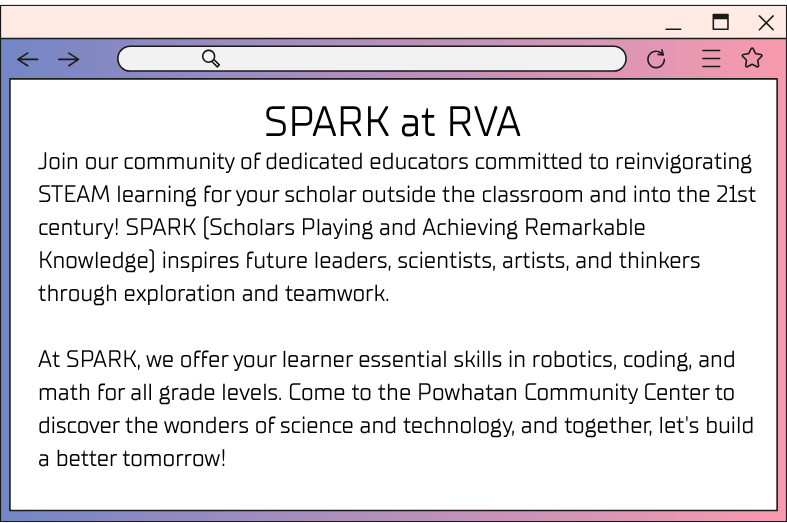
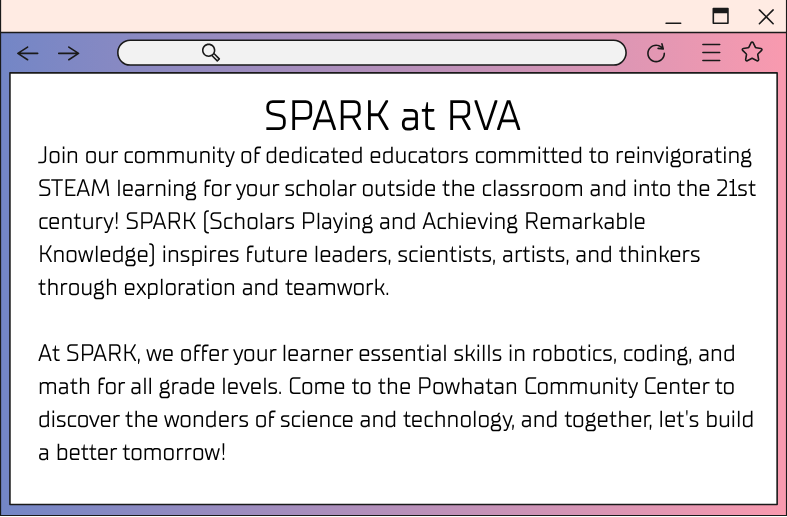
homepage set

diff --git a/src/app/page.tsx b/src/app/page.tsx
@@ -7,8 +7,74 @@ import missionpage from '@/app/Images/missionpage.png'
 
 function MyApp() {
   return (
-    <div>
-      <Image src={missionpage} alt="Mission Page" width={500} height={300} />
+    <div className="container">
+      <div style={{ transform: 'translate(320px,100px)' }}>
+        <Image src={missionpage} alt="Mission Page" width={500} height={300} />
+      </div>
+      <div style={{ display: 'flex', flexWrap: 'wrap', alignItems: 'center', justifyContent: 'center', transform: "translate(15px, 160px)" }}>
+        <a
+          href="https://www.tiktok.com/@spark.rva?is_from_webapp=1&sender_device=pc"
+          target="_blank"
+          rel="noopener noreferrer"
+          style={{
+            textDecoration: 'none',
+            border: 0,
+            width: 36,
+            height: 36,
+            padding: 2,
+            margin: 5,
+            color: '#ffffff',
+            borderRadius: '15%',
+            backgroundColor: '#0d2744'
+          }}
+        >
+          <svg className="niftybutton-tiktok" style={{ display: 'block', fill: 'currentColor' }} data-donate="true" data-tag="tic" data-name="TikTok" viewBox="0 0 512 512" preserveAspectRatio="xMidYMid meet"><title>TikTok social icon</title>
+            <path d="M 386.160156 141.550781 C 383.457031 140.15625 380.832031 138.625 378.285156 136.964844 C 370.878906 132.070312 364.085938 126.300781 358.058594 119.785156 C 342.976562 102.523438 337.339844 85.015625 335.265625 72.757812 L 335.351562 72.757812 C 333.617188 62.582031 334.332031 56 334.441406 56 L 265.742188 56 L 265.742188 321.648438 C 265.742188 325.214844 265.742188 328.742188 265.589844 332.226562 C 265.589844 332.660156 265.550781 333.058594 265.523438 333.523438 C 265.523438 333.714844 265.523438 333.917969 265.484375 334.117188 C 265.484375 334.167969 265.484375 334.214844 265.484375 334.265625 C 264.011719 353.621094 253.011719 370.976562 236.132812 380.566406 C 227.472656 385.496094 217.675781 388.078125 207.707031 388.066406 C 175.699219 388.066406 149.757812 361.964844 149.757812 329.734375 C 149.757812 297.5 175.699219 271.398438 207.707031 271.398438 C 213.765625 271.394531 219.789062 272.347656 225.550781 274.226562 L 225.632812 204.273438 C 190.277344 199.707031 154.621094 210.136719 127.300781 233.042969 C 115.457031 243.328125 105.503906 255.605469 97.882812 269.316406 C 94.984375 274.316406 84.042969 294.410156 82.714844 327.015625 C 81.882812 345.523438 87.441406 364.699219 90.089844 372.625 L 90.089844 372.792969 C 91.757812 377.457031 98.214844 393.382812 108.742188 406.808594 C 117.230469 417.578125 127.253906 427.035156 138.5 434.882812 L 138.5 434.714844 L 138.667969 434.882812 C 171.925781 457.484375 208.800781 456 208.800781 456 C 215.183594 455.742188 236.566406 456 260.851562 444.492188 C 287.785156 431.734375 303.117188 412.726562 303.117188 412.726562 C 312.914062 401.367188 320.703125 388.425781 326.148438 374.449219 C 332.367188 358.109375 334.441406 338.507812 334.441406 330.675781 L 334.441406 189.742188 C 335.273438 190.242188 346.375 197.582031 346.375 197.582031 C 346.375 197.582031 362.367188 207.832031 387.316406 214.507812 C 405.214844 219.257812 429.332031 220.257812 429.332031 220.257812 L 429.332031 152.058594 C 420.882812 152.976562 403.726562 150.308594 386.160156 141.550781 Z M 386.160156 141.550781"></path>
+          </svg>
+        </a>
+        <a
+          href="https://www.x.com/SPARKClub_RVA"
+          target="_blank"
+          rel="noopener noreferrer"
+          style={{
+            textDecoration: 'none',
+            border: 0,
+            width: 36,
+            height: 36,
+            padding: 2,
+            margin: 5,
+            color: '#ffffff',
+            borderRadius: '15%',
+            backgroundColor: '#0d2744'
+          }}
+        >
+          <svg className="niftybutton-twitterx" style={{ display: 'block', fill: 'currentColor' }} data-donate="true" data-tag="twix" data-name="TwitterX" viewBox="0 0 512 512" preserveAspectRatio="xMidYMid meet"><title>Twitter X social icon</title>
+            <path d="M 304.757 216.824 L 495.394 0 L 450.238 0 L 284.636 188.227 L 152.475 0 L 0 0 L 199.902 284.656 L 0 512 L 45.16 512 L 219.923 313.186 L 359.525 512 L 512 512 M 61.456 33.322 L 130.835 33.322 L 450.203 480.317 L 380.811 480.317 "></path>
+          </svg>
+        </a>
+        <a
+          href="https://www.instagram.com/spark.rva"
+          target="_blank"
+          rel="noopener noreferrer"
+          style={{
+            textDecoration: 'none',
+            border: 0,
+            width: 36,
+            height: 36,
+            padding: 2,
+            margin: 5,
+            color: '#ffffff',
+            borderRadius: '15%',
+            backgroundColor: '#0d2744'
+          }}
+        >
+          <svg className="niftybutton-instagram" style={{ display: 'block', fill: 'currentColor' }} data-donate="true" data-tag="ins" data-name="Instagram" viewBox="0 0 512 512" preserveAspectRatio="xMidYMid meet"><title>Instagram social icon</title>
+            <path d="M256 109.3c47.8 0 53.4 0.2 72.3 1 17.4 0.8 26.9 3.7 33.2 6.2 8.4 3.2 14.3 7.1 20.6 13.4 6.3 6.3 10.1 12.2 13.4 20.6 2.5 6.3 5.4 15.8 6.2 33.2 0.9 18.9 1 24.5 1 72.3s-0.2 53.4-1 72.3c-0.8 17.4-3.7 26.9-6.2 33.2 -3.2 8.4-7.1 14.3-13.4 20.6 -6.3 6.3-12.2 10.1-20.6 13.4 -6.3 2.5-15.8 5.4-33.2 6.2 -18.9 0.9-24.5 1-72.3 1s-53.4-0.2-72.3-1c-17.4-0.8-26.9-3.7-33.2-6.2 -8.4-3.2-14.3-7.1-20.6-13.4 -6.3-6.3-10.1-12.2-13.4-20.6 -2.5-6.3-5.4-15.8-6.2-33.2 -0.9-18.9-1-24.5-1-72.3s0.2-53.4 1-72.3c0.8-17.4 3.7-26.9 6.2-33.2 3.2-8.4 7.1-14.3 13.4-20.6 6.3-6.3 12.2-10.1 20.6-13.4 6.3-2.5 15.8-5.4 33.2-6.2C202.6 109.5 208.2 109.3 256 109.3M256 77.1c-48.6 0-54.7 0.2-73.8 1.1 -19 0.9-32.1 3.9-43.4 8.3 -11.8 4.6-21.7 10.7-31.7 20.6 -9.9 9.9-16.1 19.9-20.6 31.7 -4.4 11.4-7.4 24.4-8.3 43.4 -0.9 19.1-1.1 25.2-1.1 73.8 0 48.6 0.2 54.7 1.1 73.8 0.9 19 3.9 32.1 8.3 43.4 4.6 11.8 10.7 21.7 20.6 31.7 9.9 9.9 19.9 16.1 31.7 20.6 11.4 4.4 24.4 7.4 43.4 8.3 19.1 0.9 25.2 1.1 73.8 1.1s54.7-0.2 73.8-1.1c19-0.9 32.1-3.9 43.4-8.3 11.8-4.6 21.7-10.7 31.7-20.6 9.9-9.9 16.1-19.9 20.6-31.7 4.4-11.4 7.4-24.4 8.3-43.4 0.9-19.1 1.1-25.2 1.1-73.8s-0.2-54.7-1.1-73.8c-0.9-19-3.9-32.1-8.3-43.4 -4.6-11.8-10.7-21.7-20.6-31.7 -9.9-9.9-19.9-16.1-31.7-20.6 -11.4-4.4-24.4-7.4-43.4-8.3C310.7 77.3 304.6 77.1 256 77.1L256 77.1z"></path>
+            <path d="M256 164.1c-50.7 0-91.9 41.1-91.9 91.9s41.1 91.9 91.9 91.9 91.9-41.1 91.9-91.9S306.7 164.1 256 164.1zM256 315.6c-32.9 0-59.6-26.7-59.6-59.6s26.7-59.6 59.6-59.6 59.6 26.7 59.6 59.6S288.9 315.6 256 315.6z"></path>
+            <circle cx="351.5" cy="160.5" r="21.5"></circle>
+          </svg>
+        </a>
+      </div>
     </div>
   );
 }

diff --git a/src/app/styles/globals.css b/src/app/styles/globals.css
@@ -82,11 +82,11 @@ li a:hover {
 
 .container {
   position: absolute;
-  top: 70px;
-  bottom: 40;
+  top: 5px;
   width: 100%;
   left: 40px;
   position: fixed;
-  overflow: scroll;
+  bottom: unset;
+
 
 }
